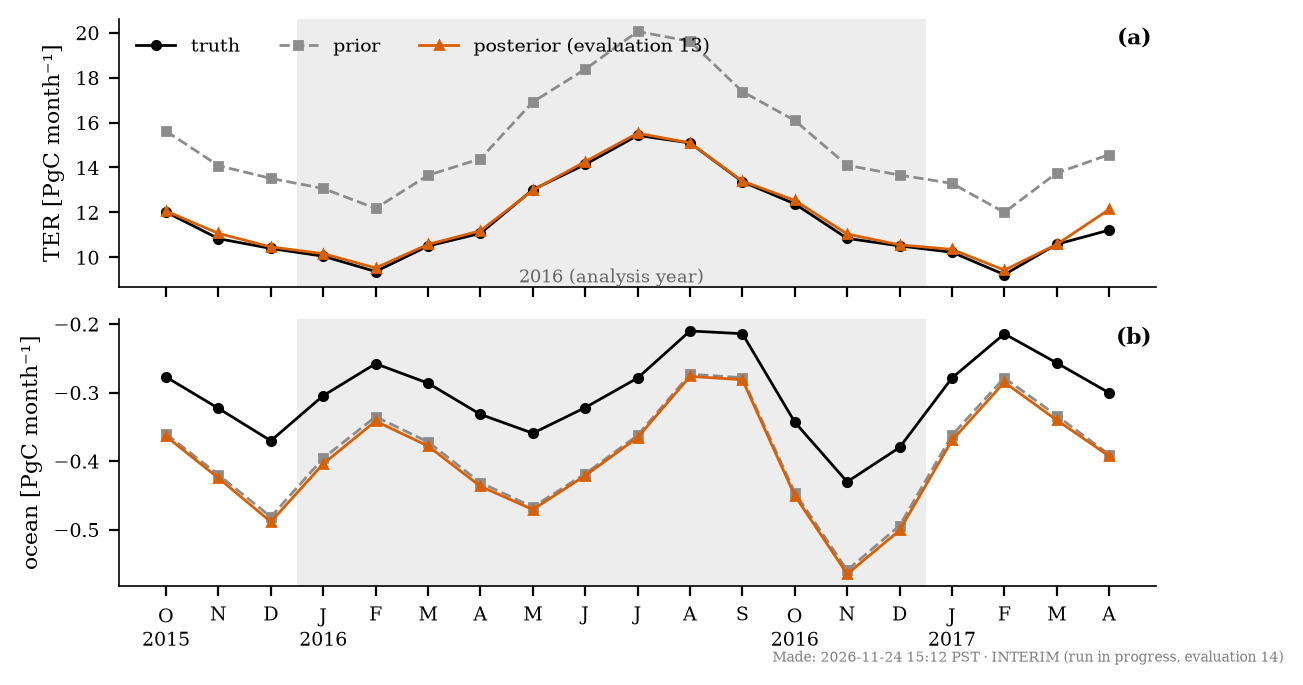
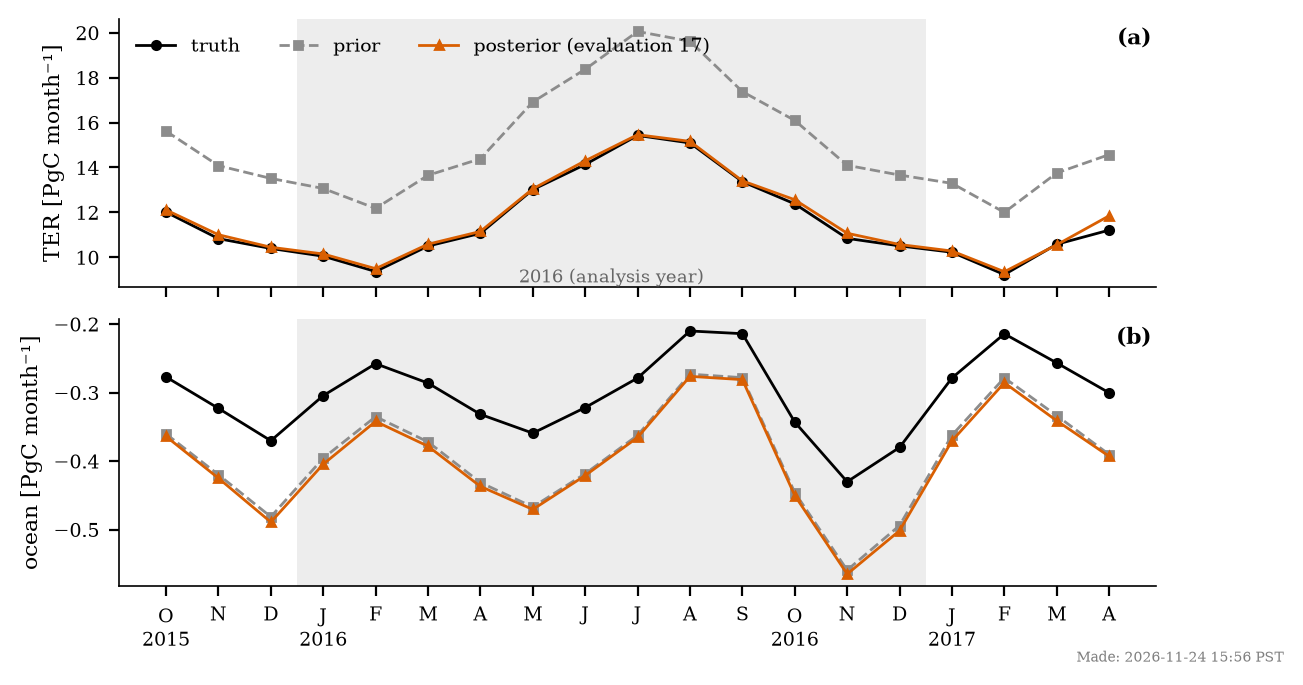
AtmosTransport adjoint page: OSSE 1 final results

diff --git a/AtmosTransport/adjoint/a1_pbl_c90_20220701/index.html b/AtmosTransport/adjoint/a1_pbl_c90_20220701/index.html
@@ -72,8 +72,8 @@ details[open] summary { margin-bottom: 0.6rem; }
   <p class="meta"><a href="../../../">Home</a> › <a href="../../">AtmosTransport</a> › Adjoint tests</p>
   <div class="eyebrow">AtmosTransport.jl · CO₂ adjoint and 4D-Var</div>
   <h1>AT Adjoint Ladder</h1>
-  <p class="prose">Which adjoints AT can compute, which of them we have verified, the column tests (A1: boundary-layer mixing alone; A2, A3: convection and the surface-flux gradient), the first advection tests (B0, B4, B1, B2: the cubed sphere), the 4D-Var gradient tests (D1, D2), a 3-month OSSE test of the 4D-Var, and OSSE 1 over the full 19-month window (interim). Part of the work towards a CO₂ 4D-Var flux inversion with <a href="https://github.com/RemoteSensingTools/AtmosTransport.jl">AtmosTransport.jl</a>.</p>
-  <p class="meta">Page generated 2026-11-24 14:56 PST · AT origin/main 78210a013, unmodified · figures carry their own "Made:" time</p>
+  <p class="prose">Which adjoints AT can compute, which of them we have verified, the column tests (A1: boundary-layer mixing alone; A2, A3: convection and the surface-flux gradient), the first advection tests (B0, B4, B1, B2: the cubed sphere), the 4D-Var gradient tests (D1, D2), a 3-month OSSE test of the 4D-Var, and OSSE 1 over the full 19-month window. Part of the work towards a CO₂ 4D-Var flux inversion with <a href="https://github.com/RemoteSensingTools/AtmosTransport.jl">AtmosTransport.jl</a>.</p>
+  <p class="meta">Page generated 2026-11-24 16:05 PST · AT origin/main 78210a013, unmodified · figures carry their own "Made:" time</p>
 </header>
 
 <!-- ============================================================ PART 1 -->
@@ -729,11 +729,11 @@ details[open] summary { margin-bottom: 0.6rem; }
 </section>
 
 <section id="osse1-long">
-  <div class="eyebrow">Part 5 · OSSE 1, 19-month window · INTERIM</div>
-  <h2>OSSE 1 over the full 19-month window (run in progress)</h2>
+  <div class="eyebrow">Part 5 · OSSE 1, 19-month window</div>
+  <h2>OSSE 1 over the full 19-month window</h2>
 
   <div class="callout prose" style="display:flex;flex-direction:column;gap:0.6rem">
-    <p><strong>Status.</strong> <strong>Interim results</strong> from the run in progress, at evaluation 13 (2026-11-24 14:47 PST). The figures and numbers will be replaced when the run has converged.</p>
+    <p><strong>Status.</strong> Final: the run converged on 2026-11-24 at 15:55 PST after 17 evaluations (5.0 h), when |ΔJ/J| stayed below 0.5 % on three accepted iterations.</p>
     <p><strong>Question.</strong> Does AT's 4D-Var reproduce GCHP's OSSE 1 over the full window: does J fall to the noise level, and do the TER and ocean errors of 2016 fall as in GCHP (C24; manuscript Table 4)?</p>
     <p><strong>What is on.</strong> As in the 3-month test: monotone PPM, CMFMC convection, Holtslag–Boville PBL mixing, AT's discrete adjoint, C48, 72 levels, MERRA-2, Float32 on one L40S GPU.</p>
     <p><strong>Window, initial condition and observations.</strong> 1 October 2015 – 1 May 2017 (578 days, 13 872 hourly met windows, 70 222 steps), with 2016 as the analysis year. CO₂ on 1 October 2015 = GCHP's field after its own spin-up from January 2015 (C24 remapped to C48); there are no January–August 2015 fluxes for a spin-up of our own. 350 035 OCO-2 B10 soundings (the package's first sounding is on 7 October 2015); the 77 soundings of 2 January 2017 whose pressure weights sum to about 17 are left out (GCHP kept them). y = AT's XCO₂ of the truth fluxes + the GCHP noise (seed 1).</p>
@@ -744,38 +744,38 @@ details[open] summary { margin-bottom: 0.6rem; }
 
   <h3>Observations and the truth</h3>
   <figure>
-    <img src="img/fig_osse1_obs.png?v=2fa1d14e72" alt="OCO-2 soundings per day by mode, map of the soundings, and the truth XCO2 at the soundings by latitude band" loading="lazy">
+    <img src="img/fig_osse1_obs.png?v=7ef25fa2b1" alt="OCO-2 soundings per day by mode, map of the soundings, and the truth XCO2 at the soundings by latitude band" loading="lazy">
     <figcaption><strong>The observations of the OSSE.</strong> (a) Soundings per day by OCO-2 mode (350 035 in all: land nadir 58 544, land glint 54 185, ocean glint 237 306; median 640 per day; 36 days without data: 1–6 Oct 2015 (before the package's first sounding), 27 Oct – 1 Nov 2015, 29 Mar – 3 Apr 2016, 11–20 Aug 2016, 31 Dec 2016, 2 Jan 2017 (its 77 soundings dropped, see above) and 22–27 Feb 2017). (b) Number of soundings per 2° × 2° cell over the window: the ocean-glint tracks dominate; no data poleward of about 70° and over winter high latitudes. (c) The truth at the soundings: daily mean XCO₂ of the truth run (AT, before noise) south of 20° S, between 20° S and 20° N, and north of 20° N (days with at least 20 soundings). The northern drawdown of summer 2016 and the growth of about 2.5 ppm per year are visible; the observations are these values plus noise with a standard deviation of 0.80 ppm.</figcaption>
   </figure>
 
-  <h3>Interim result (evaluation 13)</h3>
+  <h3>Result</h3>
   <ul class="prose" style="margin:0;padding-left:1.2rem;display:flex;flex-direction:column;gap:0.3rem">
-    <li><strong>J fell from 1.210 × 10⁸ to 2.07 × 10⁵</strong> (a factor of 585) in 13 evaluations, all accepted. The starting J equals GCHP's (1.21 × 10⁸). J<sub>obs</sub> = 1.81 × 10⁵, 4 % above its value at the truth (the noise, 1.745 × 10⁵); 2 J<sub>obs</sub>/N = 1.03.</li>
-    <li><strong>TER 2016 error: +43.73 → +1.07 PgC</strong>; cell-month RMSE −59.7 % against the prior. GCHP C24: +1.18 PgC and −62 % (discrete adjoint), +1.15 PgC and −59 % (continuous).</li>
-    <li><strong>TransCom land regions:</strong> the sum of the regional 2016 TER errors falls from 43.73 to 3.75 PgC (GCHP: 42.7 → 3.9).</li>
-    <li><strong>Ocean 2016 error: −1.12 → −1.17 PgC</strong> (GCHP: −1.18): with a diagonal B the ocean flux is not corrected, as in GCHP.</li>
+    <li><strong>J fell from 1.210 × 10⁸ to 2.054 × 10⁵</strong> (a factor of 589) in 17 evaluations (one backtrack). The starting J equals GCHP's (1.21 × 10⁸). J<sub>obs</sub> = 1.788 × 10⁵, 2.4 % above its value at the truth (the noise, 1.745 × 10⁵); 2 J<sub>obs</sub>/N = 1.02.</li>
+    <li><strong>TER 2016 error: +43.73 → +1.20 PgC</strong>; cell-month RMSE −61.8 % against the prior. GCHP C24: +1.18 PgC and −62 % (discrete adjoint), +1.15 PgC and −59 % (continuous).</li>
+    <li><strong>TransCom land regions:</strong> the sum of the regional 2016 TER errors falls from 43.73 to 3.46 PgC (GCHP: 42.7 → 3.9).</li>
+    <li><strong>Ocean 2016 error: −1.12 → −1.18 PgC</strong> (GCHP: −1.18): with a diagonal B the ocean flux is not corrected, as in GCHP. The TER and ocean errors cancel (sum +0.03 PgC; GCHP 0.00): the observations fix the global total, not the land–ocean split.</li>
     <li><strong>About 16 min per evaluation</strong> (forward + adjoint over 578 days); a forward run of the window takes 6 min.</li>
   </ul>
 
   <figure>
-    <img src="img/fig_osse1_cost.png?v=45f84f9498" alt="Cost function, its observation and background parts, and 2 J_obs over N per evaluation of the long OSSE 1" loading="lazy">
+    <img src="img/fig_osse1_cost.png?v=929ea7c1ae" alt="Cost function, its observation and background parts, and 2 J_obs over N per evaluation of the long OSSE 1" loading="lazy">
     <figcaption><strong>Cost function per evaluation.</strong> (a) J, with J(truth) and GCHP's final J (C24, discrete adjoint) for orientation; (b) J<sub>obs</sub> and J<sub>b</sub>, with their values at the truth; (c) 2 J<sub>obs</sub>/N (1 = the noise level). J(truth) lies above J because J<sub>b</sub>(truth) grows with the number of controls: at C48 there are 4 times as many cells as at C24, so GCHP's J values are not directly comparable.</figcaption>
   </figure>
   <figure>
-    <img src="img/fig_osse1_flux_error.png?v=52a47123eb" alt="2016 TER and ocean flux errors and cell RMSE change per evaluation" loading="lazy">
+    <img src="img/fig_osse1_flux_error.png?v=aaafeb2615" alt="2016 TER and ocean flux errors and cell RMSE change per evaluation" loading="lazy">
     <figcaption><strong>2016 flux errors per accepted evaluation.</strong> (a, b) global 2016 total minus truth for TER and ocean; (c, d) cell-month RMSE relative to the prior. Dashed: GCHP C24 final values (discrete adjoint).</figcaption>
   </figure>
   <figure>
-    <img src="img/fig_osse1_monthly.png?v=38b1f4a02a" alt="Monthly global TER and ocean totals over the 19-month window for truth, prior and posterior" loading="lazy">
-    <figcaption><strong>Monthly global totals</strong> of truth, prior and the posterior of evaluation 13 over the whole window; grey: 2016. The last month (April 2017) is weakly constrained.</figcaption>
+    <img src="img/fig_osse1_monthly.png?v=fd50c72cc2" alt="Monthly global TER and ocean totals over the 19-month window for truth, prior and posterior" loading="lazy">
+    <figcaption><strong>Monthly global totals</strong> of truth, prior and the final posterior over the whole window; grey: 2016. The last month (April 2017) is weakly constrained.</figcaption>
   </figure>
   <figure>
-    <img src="img/fig_osse1_maps.png?v=753c52515f" alt="Maps of the 2016 TER and ocean flux errors of the prior and of the posterior" loading="lazy">
+    <img src="img/fig_osse1_maps.png?v=cdeafbf211" alt="Maps of the 2016 TER and ocean flux errors of the prior and of the posterior" loading="lazy">
     <figcaption><strong>2016 flux error maps</strong>, prior − truth and posterior − truth, for TER (a, b) and ocean (c, d), gC m⁻² yr⁻¹.</figcaption>
   </figure>
   <figure>
-    <img src="img/fig_osse1_transcom.png?v=0b49dc2958" alt="January to December 2016 TER totals for the 11 TransCom land regions and ocean totals for the 11 TransCom ocean regions, truth, prior and posterior" loading="lazy">
-    <figcaption><strong>TransCom regions, January–December 2016 totals</strong> (PgC yr⁻¹) of truth, prior and the posterior of evaluation 13: (a) TER of the 11 land regions, (b) ocean flux of the 11 ocean regions. Sum of the regional |posterior − truth|: TER 43.73 → 3.75 PgC (GCHP C24: 42.7 → 3.9 with the discrete adjoint, 4.2 with the continuous one); ocean 1.26 → 1.31 PgC (not corrected with a diagonal B). Regions: TransCom-3 map of the CarbonTracker regions file (1°); each C48 cell takes the region at its centre, and coastal cells with land (ocean) flux whose centre lies in an ocean (land) region go to the nearest land (ocean) region, so the regional totals add up to the global ones.</figcaption>
+    <img src="img/fig_osse1_transcom.png?v=42f2d406bc" alt="January to December 2016 TER totals for the 11 TransCom land regions and ocean totals for the 11 TransCom ocean regions, truth, prior and posterior" loading="lazy">
+    <figcaption><strong>TransCom regions, January–December 2016 totals</strong> (PgC yr⁻¹) of truth, prior and the final posterior: (a) TER of the 11 land regions, (b) ocean flux of the 11 ocean regions. Sum of the regional |posterior − truth|: TER 43.73 → 3.46 PgC (GCHP C24: 42.7 → 3.9 with the discrete adjoint, 4.2 with the continuous one); ocean 1.26 → 1.31 PgC (not corrected with a diagonal B). Regions: TransCom-3 map of the CarbonTracker regions file (1°); each C48 cell takes the region at its centre, and coastal cells with land (ocean) flux whose centre lies in an ocean (land) region go to the nearest land (ocean) region, so the regional totals add up to the global ones.</figcaption>
   </figure>
   <p class="meta">Scripts: <code>osses/driver/fourdvar_3month.jl</code> (run; options --mmap_dir, --stop_rel, --host_tape_gib), <code>osses/driver/fig_osse1_long.py</code> (figures, numbers: <code>results_osse1.txt</code>). Data: <code>/temp2/ksuselj/adjoint_exps/osses/osse1_long/</code>.</p>
 </section>
